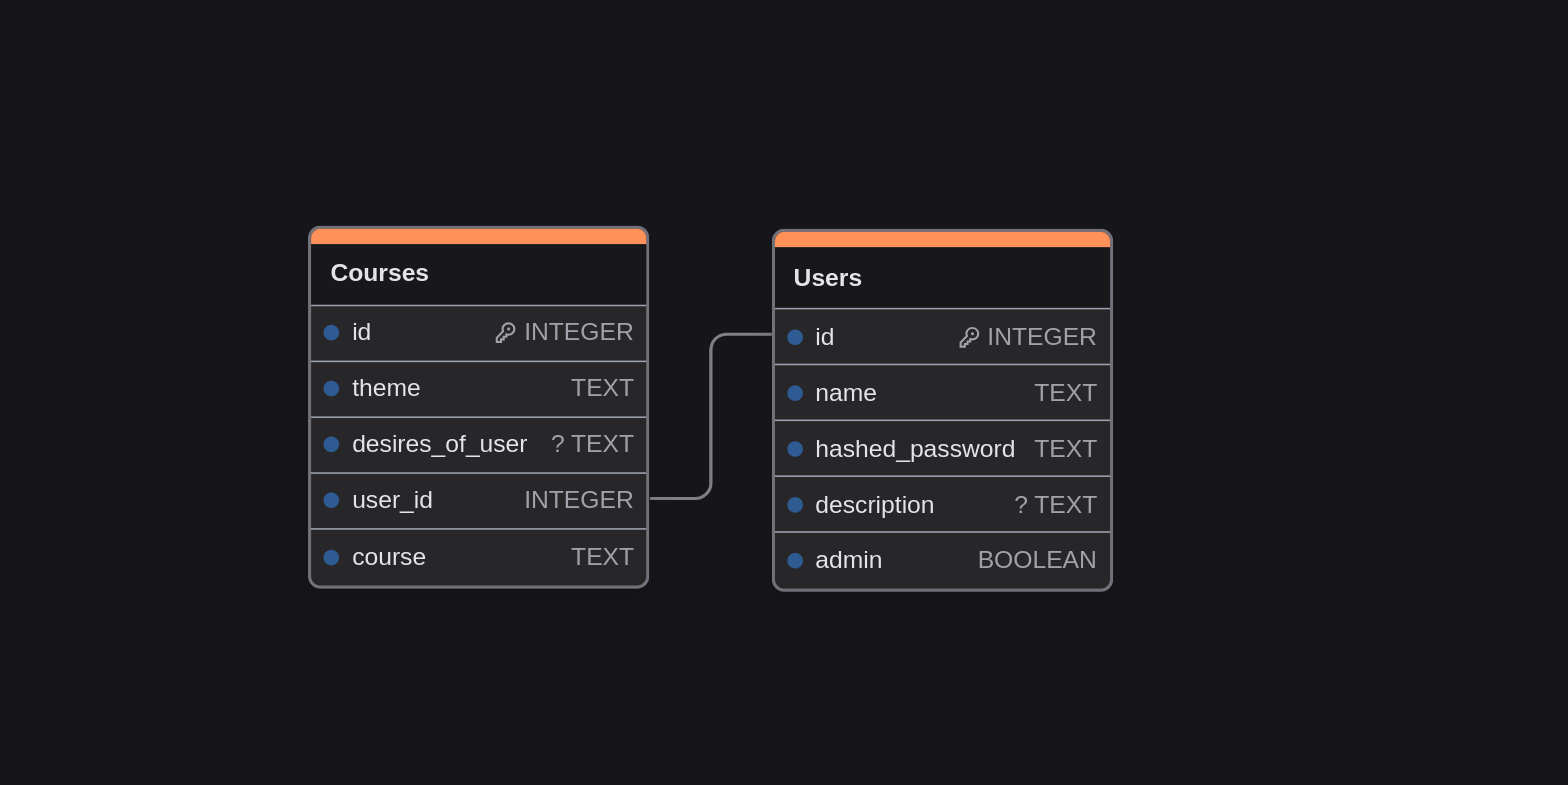
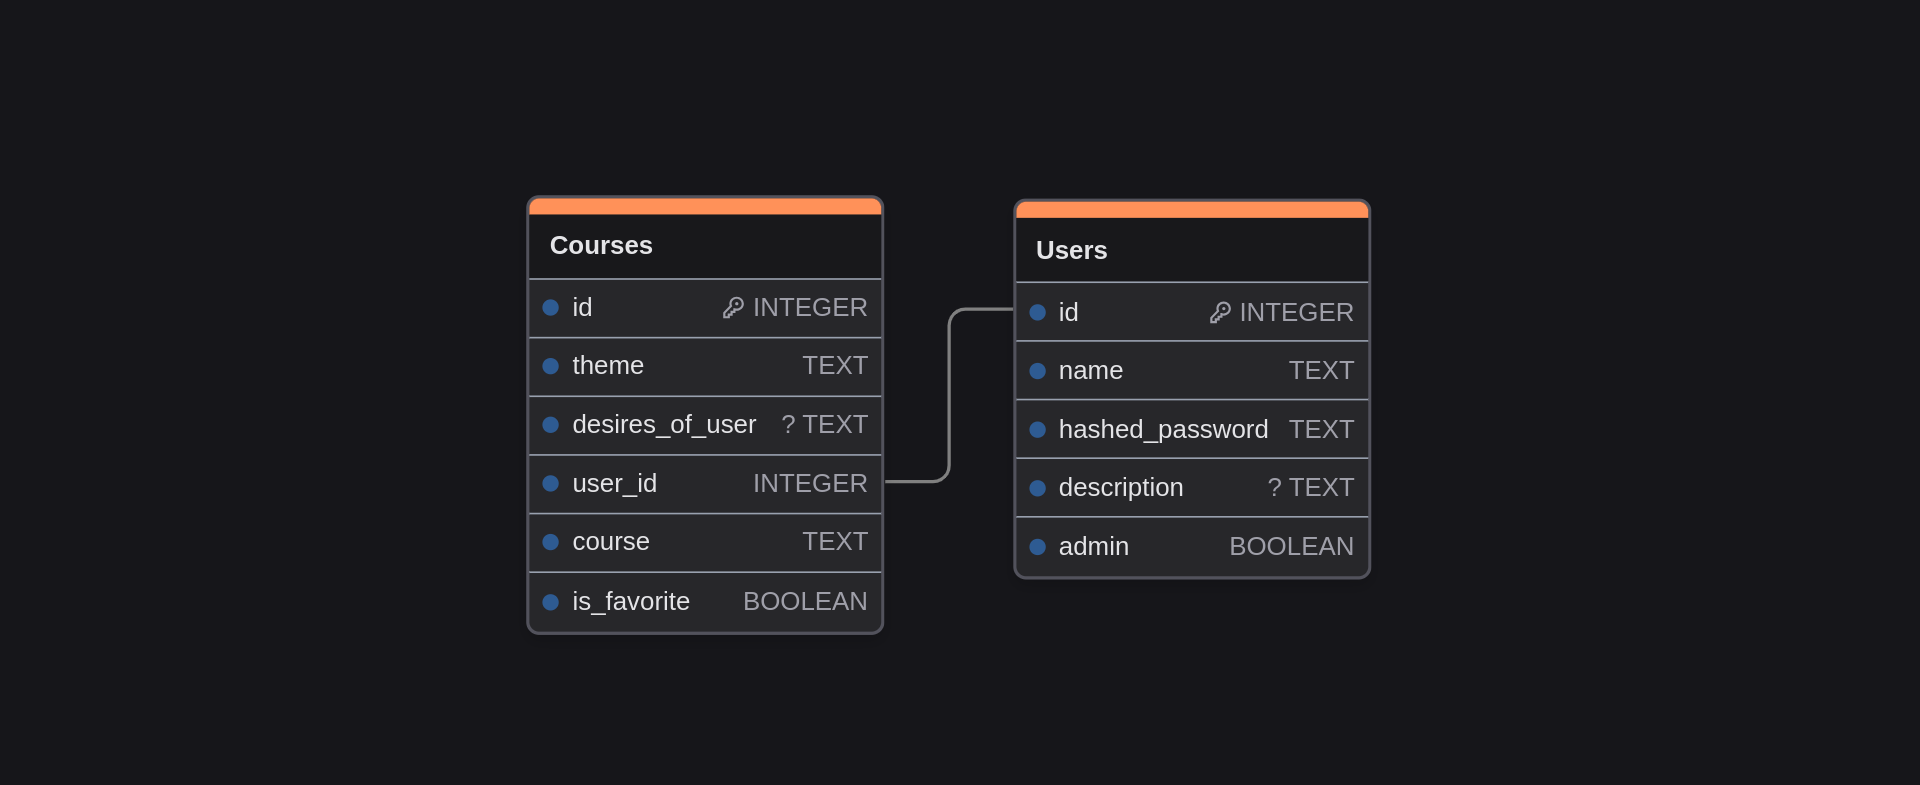
Добавил избранные курсы + редактирование курсов + чуток ui

Changed region(s): [[0.1875, 0.2446, 0.7188, 0.8255]]

diff --git a/app/templates/ai_couch/courses.html b/app/templates/ai_couch/courses.html
@@ -10,31 +10,34 @@
 
     {% if courses_of_current_user %}
     <div class="row row-cols-1 row-cols-md-2 g-4">
-        {% for course in courses_of_current_user %}
+        {% for course in courses_of_current_user|sort(attribute='is_favorite', reverse=True) %}
         <div class="col">
             <div class="card h-100" style="position: relative;">
-                <form 
-                    action="{{ url_for('ai_couch.delete_course', course_id=course.id) }}" 
-                    method="POST" 
-                    style="position: absolute; top: 10px; right: 10px; z-index: 1;"
-                >
-                    <button 
-                        type="submit" 
-                        class="btn btn-warning" 
-                        onclick="return confirm('Удалить курс {{ course.theme }}?')"
-                    >
-                        Удалить
-                    </button>
-                </form>
-                <a href="{{ url_for('ai_couch.course', course_id=course.id) }}" 
-                   class="text-decoration-none text-dark">
+                <div style="position: absolute; top: 10px; right: 10px; display: flex; gap: 5px; z-index: 1;">
+                    <!-- Кнопка избранного -->
+                    <form action="{{ url_for('ai_couch.favorites', course_id=course.id) }}" method="POST">
+                        <button type="submit"
+                            class="btn btn-sm {% if course.is_favorite %}btn-warning border-2{% else %}btn-outline-warning border-2{% endif %}"
+                            title="{% if course.is_favorite %}Убрать из избранного{% else %}Добавить в избранное{% endif %}">
+                            <i class="bi {% if course.is_favorite %}bi-star-fill{% else %}bi-star{% endif %}"></i>
+                        </button>
+                    </form>
+
+                    <!-- Кнопка удаления -->
+                    <form action="{{ url_for('ai_couch.delete_course', course_id=course.id) }}" method="POST">
+                        <button type="submit" class="btn btn-warning btn-sm border-2"
+                            onclick="return confirm('Удалить курс {{ course.theme }}?')">
+                            Удалить
+                        </button>
+                    </form>
+                </div>
+                <a href="{{ url_for('ai_couch.course', course_id=course.id) }}" class="text-decoration-none text-dark">
                     <div class="card-body">
                         <h5 class="card-title mb-3">
                             {{ course.theme }}
                         </h5>
                         {% if course.desires_of_user %}
                         <p class="card-text text-muted small">
-                            <i class="bi bi-lightbulb"></i> 
                             {{ course.desires_of_user|truncate(100) }}
                         </p>
                         {% endif %}

diff --git a/app/templates/base.html b/app/templates/base.html
@@ -6,6 +6,7 @@
     <meta name="viewport" content="width=device-width, initial-scale=1.0">
     <link rel="stylesheet" href="../static/css/style.css">
     <link rel="stylesheet" href="../static/css/bootstrap.min.css">
+    <link rel="stylesheet" href="https://cdn.jsdelivr.net/npm/bootstrap-icons@1.11.3/font/bootstrap-icons.min.css">
     <script src="../static/js/bootstrap.js"></script>
     <script src="../static/js/bootstrap.bundle.min.js"></script>
     <title>{{ title }}</title>
@@ -25,7 +26,7 @@
                 <button class="navbar-toggler" type="button" data-bs-toggle="collapse" data-bs-target="#navbarNav">
                     <span class="navbar-toggler-icon"></span>
                 </button>
-                
+
                 <div class="collapse navbar-collapse justify-content-end" id="navbarNav">
                     <ul class="navbar-nav align-items-center">
                         <li class="nav-item mx-2">

diff --git a/app/ai_core/iterative_course_generation_agent.py b/app/ai_core/iterative_course_generation_agent.py
@@ -1,0 +1,53 @@
+from app.mistral_ai_initializer import mistral_ai_initializer
+
+
+def create_course(
+    prompt_from_prompt_agent: str,
+    plan: str,
+    part_of_plan: str,
+    ready_part_of_course: str = None,
+    theory: str = None,
+) -> str:
+    """Функция для итеративной генерации итогового результата.
+
+    Args:
+        prompt_from_prompt_agent (str): Промпт, по которому нужно сделать курс.
+        plan (str): План курса.
+        part_of_plan (str): Пункт плана, который нужно раскрыть.
+        ready_part_of_course (str, optional): Готовая часть курса для сохранения сути. Defaults to None.
+        theory (str, optional): Теория, которая должна быть обязательно включена в курс. Defaults to None.
+
+    Returns:
+        str: Пункт плана.
+
+    """
+    json_example = """
+    {
+        "1":{
+                "title": "Как начать программировать",
+                "data":  "Как можно подробно распиши пункт."
+            },
+    }
+    """
+    client = mistral_ai_initializer()
+    prompt = f"""{prompt_from_prompt_agent}.
+    Тебе подается пункт плана, весь план, теория, пример твоего ответа
+    и уже готовая часть курса. Твоя задача написать пункт плана, который
+    от тебя требуется учитывая остальную часть курса, весь план и теорию.
+    Готовой части может и не быть. Это значит, что тебе дали первый пункт плана,
+    тут ты основываешься на все остальное. Пункт плана, который тебе нужно расписать:
+    {part_of_plan}.
+    План: {plan}. Теория: {theory}. Пример твоего ответа: {json_example}.
+    Готовая часть курса: {ready_part_of_course}
+    Пиши data не в markdown, а в html!"""
+    result = client.message(
+        messages=[
+            {
+                "role": "user",
+                "content": prompt,
+            }
+        ],
+        temperature=0.2,
+        response_format={"type": "json_object"},
+    )
+    return result

diff --git a/app/ai_couch/routes.py b/app/ai_couch/routes.py
@@ -5,7 +5,7 @@ import colorama
 from flask import Blueprint, redirect, render_template, request, send_file
 from flask_login import current_user, login_required, login_user, logout_user
 
-from app.ai_core import censor, cool_prompt, get_theory, plan
+from app.ai_core import censor, cool_prompt, edit_course, get_theory, plan
 from app.forms import LoginForm, RegistrationForm
 from app.models import CourseModel, UsersModel, create_session, global_init
 
@@ -51,7 +51,10 @@ def create_course():
         censor(theme_from_user=users_theme, desires=users_desires)
     )
     is_theme_are_good = answer_from_censor["data"]
-    print(f" * User's theme and desires is good: {is_theme_are_good}")
+    print(
+        f" * User's theme and desires is good:"
+        f" {colorama.Fore.GREEN if is_theme_are_good else colorama.Fore.RED}{is_theme_are_good}"
+    )
     time.sleep(1)
     message = answer_from_censor["reason"] if not is_theme_are_good else None
     if message:
@@ -85,7 +88,6 @@ def create_course():
             prompt_from_prompt_agent=prompt_from_llm,
             plan=plan_of_course,
         )
-
         if course:
             print(colorama.Fore.GREEN + " * Course created successfully!")
         if current_user.is_authenticated:
@@ -265,3 +267,28 @@ def delete_course(course_id: int):
 @ai_couch.route("/terms", methods=["GET"])
 def terms_of_using_kairos():
     return send_file("./static/terms/terms_of_using.pdf")
+
+
+@ai_couch.route(
+    "/edit-course/<int:course_id>",
+    methods=["POST", "GET"],
+)
+@login_required
+def edit_course_view(course_id: int):
+    course = db_session.query(CourseModel).filter_by(id=course_id).first()
+    user_edits = request.args.get("user_edits", type=str)
+    course.course = edit_course(
+        course=course.course,
+        user_edits=user_edits,
+    )
+    db_session.commit()
+    return redirect(f"/course/{course_id}")
+
+
+@ai_couch.route("/favorites/<int:course_id>", methods=["POST", "GET"])
+@login_required
+def favorites(course_id: int):
+    course = db_session.query(CourseModel).filter_by(id=course_id).first()
+    course.is_favorite = True if not course.is_favorite else False
+    db_session.commit()
+    return redirect("/courses")

diff --git a/app/ai_core/editor_agent.py b/app/ai_core/editor_agent.py
@@ -1,0 +1,46 @@
+import json
+
+from app.mistral_ai_initializer import mistral_ai_initializer
+
+
+def edit_course(course: dict, user_edits: str) -> dict:
+    json_example = """
+    {
+        "1":{
+                "title": "Как начать программировать",
+                "data":  "Как можно подробно распиши пункт."
+            },
+        "1.1":
+            {
+                "title": "Азы и начала",
+                "data":  "Как можно подробно распиши пункт."
+            },
+        "1.2":
+            {
+                "title": "Выбор языка",
+                "data":  "Как можно подробно распиши пункт."
+            },
+        "2":
+            {
+                "title": "Основные языки программирования",
+                "data":  "Как можно подробно распиши пункт."
+            },
+    }
+    """
+    prompt = f"""Привет! Ты редактор курсов по пожеланию пользователя. Твоя задача сделать с курсом именно то, что
+    просит пользователь. Курс: {json.dumps(course)} Правки пользователя: {user_edits}. Вернуть нужно такой же по
+    структуре курс, но с правками пользователя. Пример структуры курса: {json_example}"""
+    client = mistral_ai_initializer()
+    response = client.message(
+        messages=[
+            {
+                "role": "user",
+                "content": prompt,
+            }
+        ],
+        temperature=0.1,
+        response_format={
+            "type": "json_object",
+        },
+    )
+    return json.loads(response)

diff --git a/app/ai_core/__init__.py b/app/ai_core/__init__.py
@@ -1,5 +1,7 @@
 from .analyzer_agent import analyze
 from .censor_agent import censor
+from .editor_agent import edit_course
+from .iterative_course_generation_agent import create_course as cc
 from .parser_agent import parser
 from .plan_by_prompt_agent import plan
 from .prompt_by_theme_agent import cool_prompt

diff --git a/app/models/courses_model.py b/app/models/courses_model.py
@@ -28,3 +28,8 @@ class CourseModel(SqlAlchemyBase):
         sqlalchemy.JSON,
         nullable=False,
     )
+    is_favorite = sqlalchemy.Column(
+        sqlalchemy.BOOLEAN,
+        default=False,
+        nullable=False,
+    )

diff --git a/TODO.md b/TODO.md
@@ -13,3 +13,5 @@
 - [ ] Сделать агента для генерации описания курса для красивого отображения  
 - [ ] Правки курса с помощью ИИ-агента  
 - [ ] Сделать избранные курсы  
+- [ ] Раскрытие каждого пп после создания курса  
+- [ ] Эмбеддинги  
